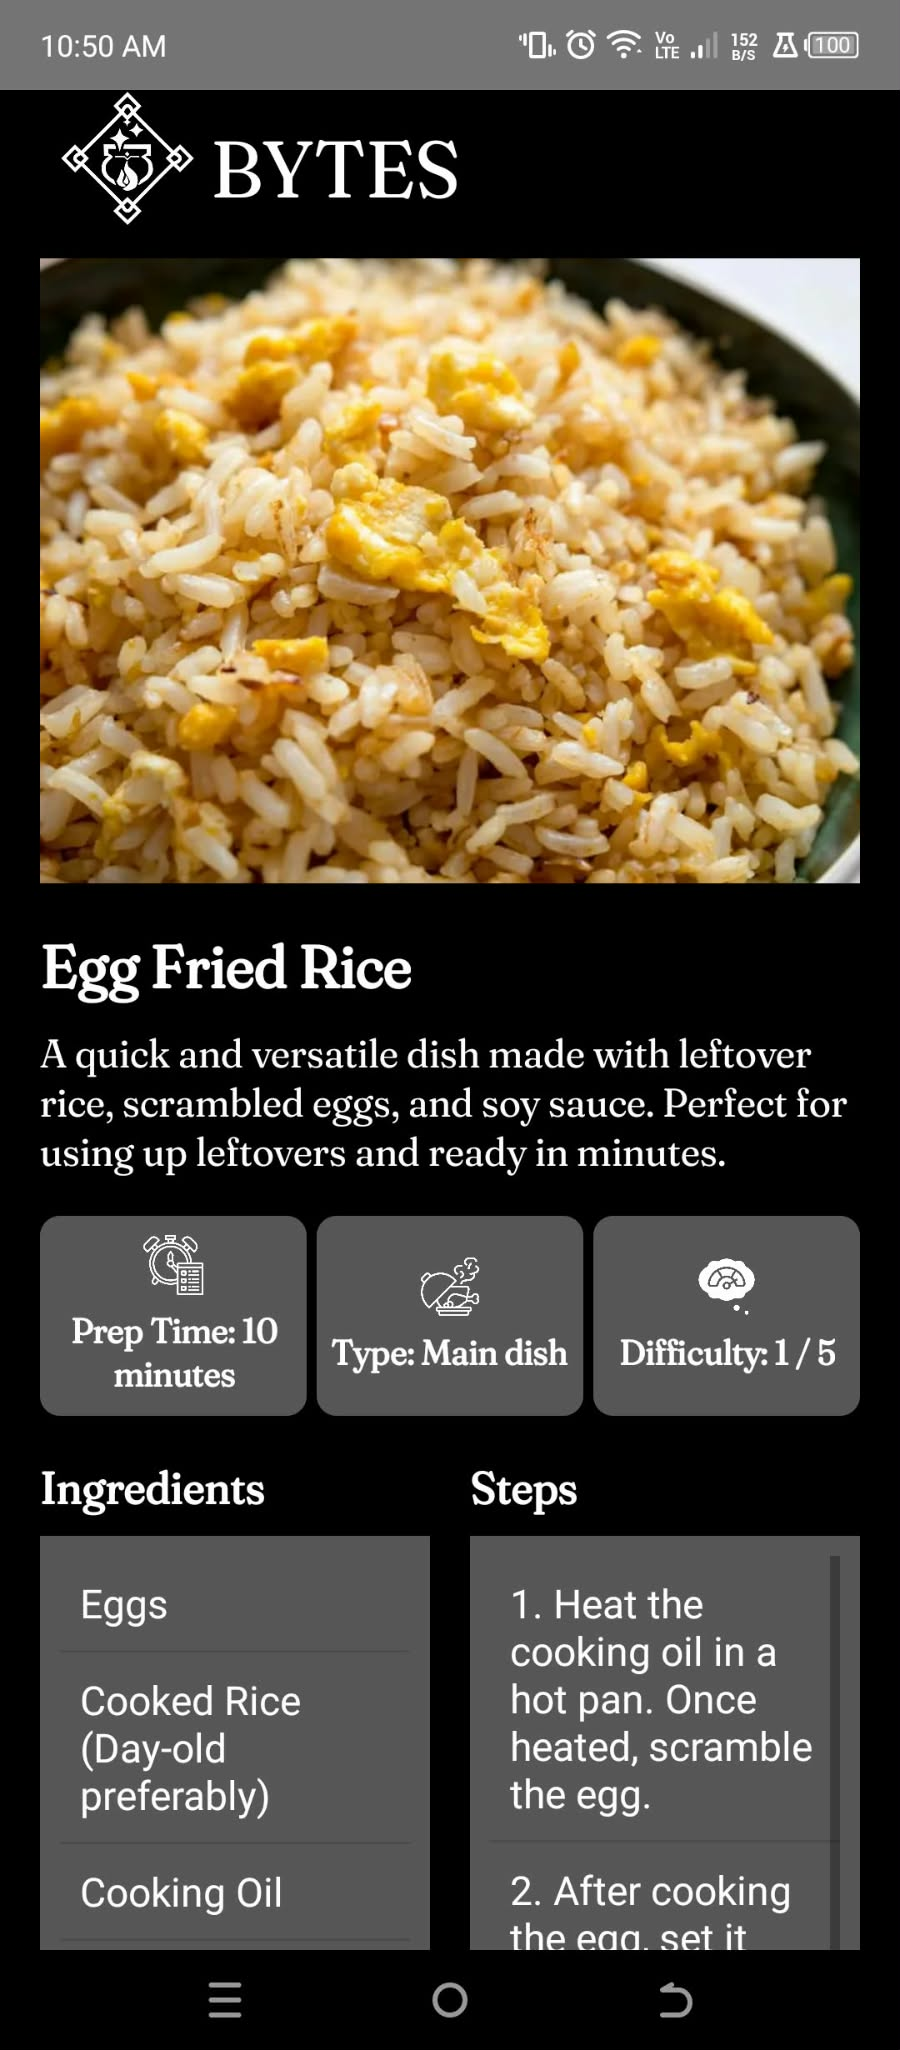
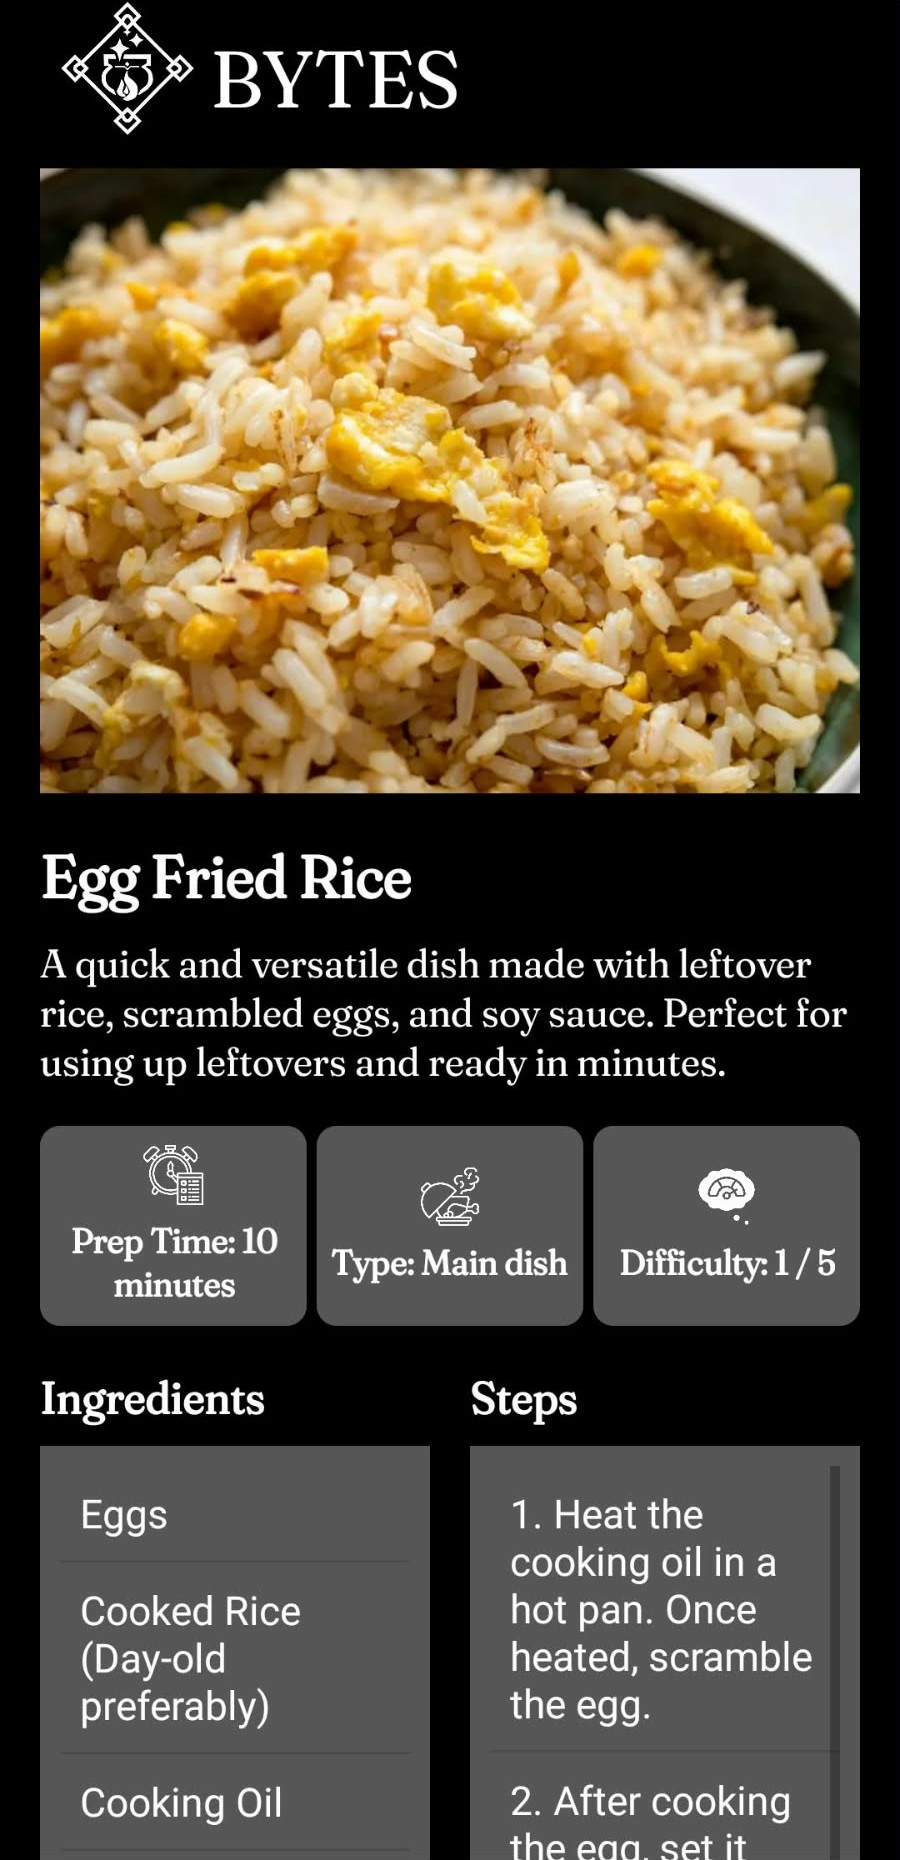
style: crop phone bars from project screenshots

diff --git a/index.html b/index.html
@@ -301,12 +301,12 @@
 <div class="course-evidence" aria-label="CCONNECT project screenshots">
 <figure class="course-evidence-item">
 <button type="button" class="media-trigger" aria-haspopup="dialog" aria-label="View CCONNECT — Admin dashboard">
-<img src="__BASE__/images/course-projects/cconnect-dashboard.jpg" alt="CCONNECT — Admin dashboard screenshot from the team project" loading="lazy" width="900" height="2050" decoding="async">
+<img src="__BASE__/images/course-projects/cconnect-dashboard.jpg" alt="CCONNECT — Admin dashboard screenshot from the team project" loading="lazy" width="900" height="1950" decoding="async">
 </button>
 <dialog class="media-dialog" aria-labelledby="preview-title-21">
 <div class="viewer-panel">
 <div class="viewer-header"><h2 id="preview-title-21">CCONNECT — Admin dashboard</h2><button type="button" class="viewer-close">Close <span aria-hidden="true">×</span></button></div>
-<div class="viewer-image"><img src="__BASE__/images/course-projects/cconnect-dashboard.jpg" alt="CCONNECT — Admin dashboard screenshot from the team project" loading="lazy" width="900" height="2050" decoding="async"></div>
+<div class="viewer-image"><img src="__BASE__/images/course-projects/cconnect-dashboard.jpg" alt="CCONNECT — Admin dashboard screenshot from the team project" loading="lazy" width="900" height="1950" decoding="async"></div>
 <div class="viewer-actions"><button type="button" class="button button-outline" aria-pressed="false">Zoom in</button></div>
 </div>
 </dialog>
@@ -314,12 +314,12 @@
 </figure>
 <figure class="course-evidence-item">
 <button type="button" class="media-trigger" aria-haspopup="dialog" aria-label="View CCONNECT — Order updates">
-<img src="__BASE__/images/course-projects/cconnect-notifications.jpg" alt="CCONNECT — Order updates screenshot from the team project" loading="lazy" width="900" height="2050" decoding="async">
+<img src="__BASE__/images/course-projects/cconnect-notifications.jpg" alt="CCONNECT — Order updates screenshot from the team project" loading="lazy" width="900" height="1950" decoding="async">
 </button>
 <dialog class="media-dialog" aria-labelledby="preview-title-22">
 <div class="viewer-panel">
 <div class="viewer-header"><h2 id="preview-title-22">CCONNECT — Order updates</h2><button type="button" class="viewer-close">Close <span aria-hidden="true">×</span></button></div>
-<div class="viewer-image"><img src="__BASE__/images/course-projects/cconnect-notifications.jpg" alt="CCONNECT — Order updates screenshot from the team project" loading="lazy" width="900" height="2050" decoding="async"></div>
+<div class="viewer-image"><img src="__BASE__/images/course-projects/cconnect-notifications.jpg" alt="CCONNECT — Order updates screenshot from the team project" loading="lazy" width="900" height="1950" decoding="async"></div>
 <div class="viewer-actions"><button type="button" class="button button-outline" aria-pressed="false">Zoom in</button></div>
 </div>
 </dialog>
@@ -350,12 +350,12 @@
 <div class="course-evidence" aria-label="BYTES project screenshots">
 <figure class="course-evidence-item">
 <button type="button" class="media-trigger" aria-haspopup="dialog" aria-label="View BYTES — Recipe results">
-<img src="__BASE__/images/course-projects/bytes-results.jpg" alt="BYTES — Recipe results screenshot from the team project" loading="lazy" width="900" height="2050" decoding="async">
+<img src="__BASE__/images/course-projects/bytes-results.jpg" alt="BYTES — Recipe results screenshot from the team project" loading="lazy" width="900" height="1860" decoding="async">
 </button>
 <dialog class="media-dialog" aria-labelledby="preview-title-23">
 <div class="viewer-panel">
 <div class="viewer-header"><h2 id="preview-title-23">BYTES — Recipe results</h2><button type="button" class="viewer-close">Close <span aria-hidden="true">×</span></button></div>
-<div class="viewer-image"><img src="__BASE__/images/course-projects/bytes-results.jpg" alt="BYTES — Recipe results screenshot from the team project" loading="lazy" width="900" height="2050" decoding="async"></div>
+<div class="viewer-image"><img src="__BASE__/images/course-projects/bytes-results.jpg" alt="BYTES — Recipe results screenshot from the team project" loading="lazy" width="900" height="1860" decoding="async"></div>
 <div class="viewer-actions"><button type="button" class="button button-outline" aria-pressed="false">Zoom in</button></div>
 </div>
 </dialog>
@@ -363,12 +363,12 @@
 </figure>
 <figure class="course-evidence-item">
 <button type="button" class="media-trigger" aria-haspopup="dialog" aria-label="View BYTES — Recipe details">
-<img src="__BASE__/images/course-projects/bytes-recipe.jpg" alt="BYTES — Recipe details screenshot from the team project" loading="lazy" width="900" height="2050" decoding="async">
+<img src="__BASE__/images/course-projects/bytes-recipe.jpg" alt="BYTES — Recipe details screenshot from the team project" loading="lazy" width="900" height="1860" decoding="async">
 </button>
 <dialog class="media-dialog" aria-labelledby="preview-title-24">
 <div class="viewer-panel">
 <div class="viewer-header"><h2 id="preview-title-24">BYTES — Recipe details</h2><button type="button" class="viewer-close">Close <span aria-hidden="true">×</span></button></div>
-<div class="viewer-image"><img src="__BASE__/images/course-projects/bytes-recipe.jpg" alt="BYTES — Recipe details screenshot from the team project" loading="lazy" width="900" height="2050" decoding="async"></div>
+<div class="viewer-image"><img src="__BASE__/images/course-projects/bytes-recipe.jpg" alt="BYTES — Recipe details screenshot from the team project" loading="lazy" width="900" height="1860" decoding="async"></div>
 <div class="viewer-actions"><button type="button" class="button button-outline" aria-pressed="false">Zoom in</button></div>
 </div>
 </dialog>
